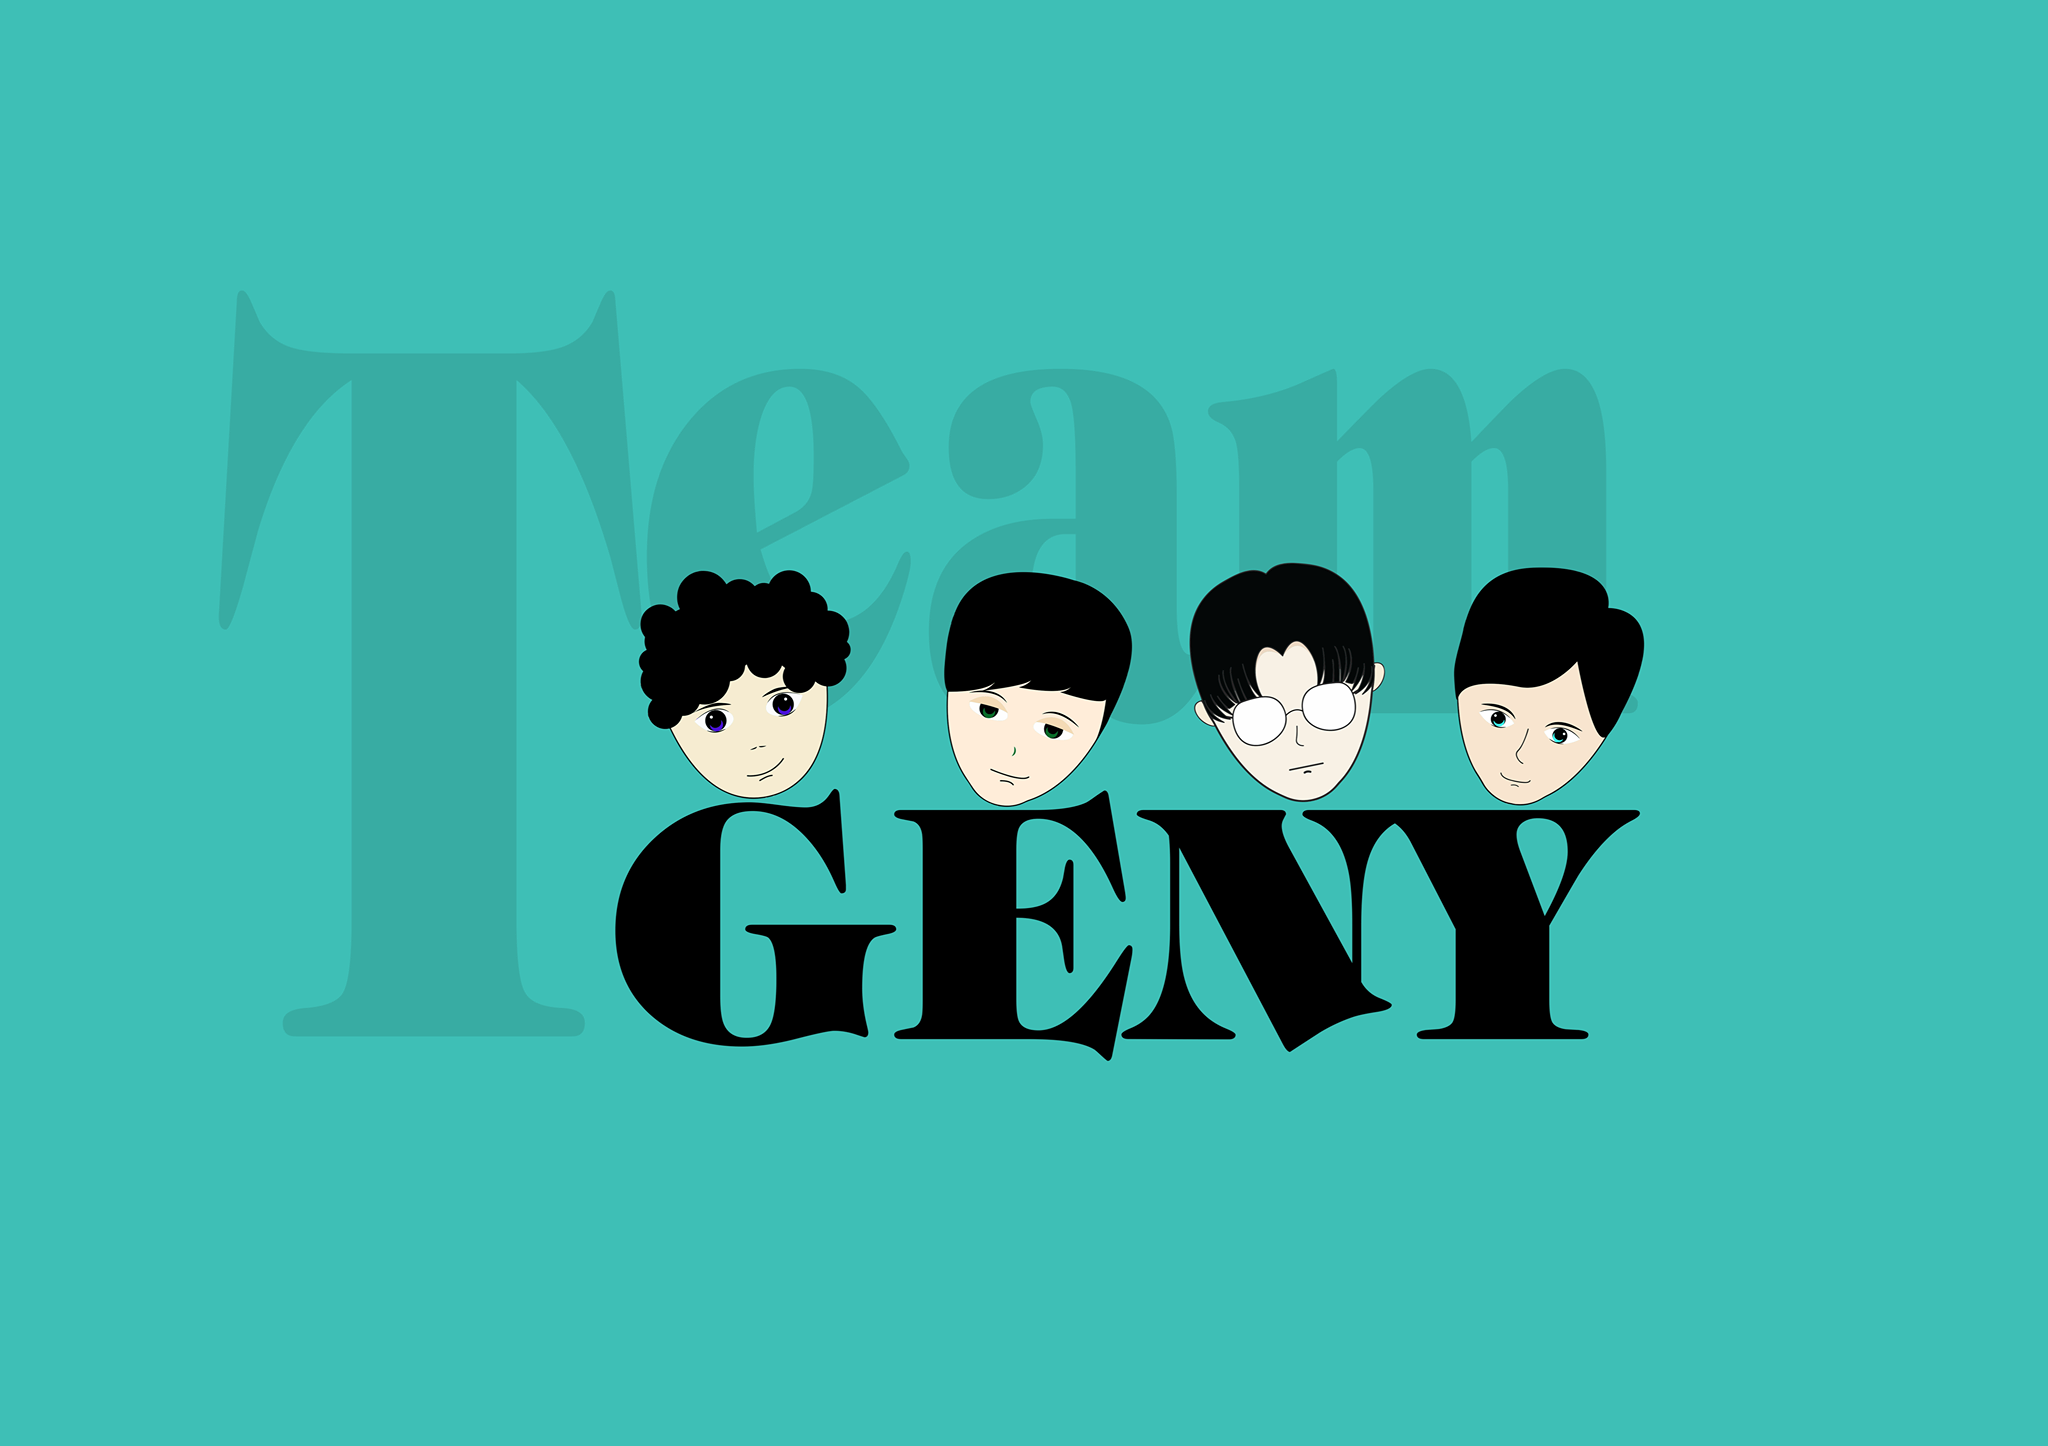
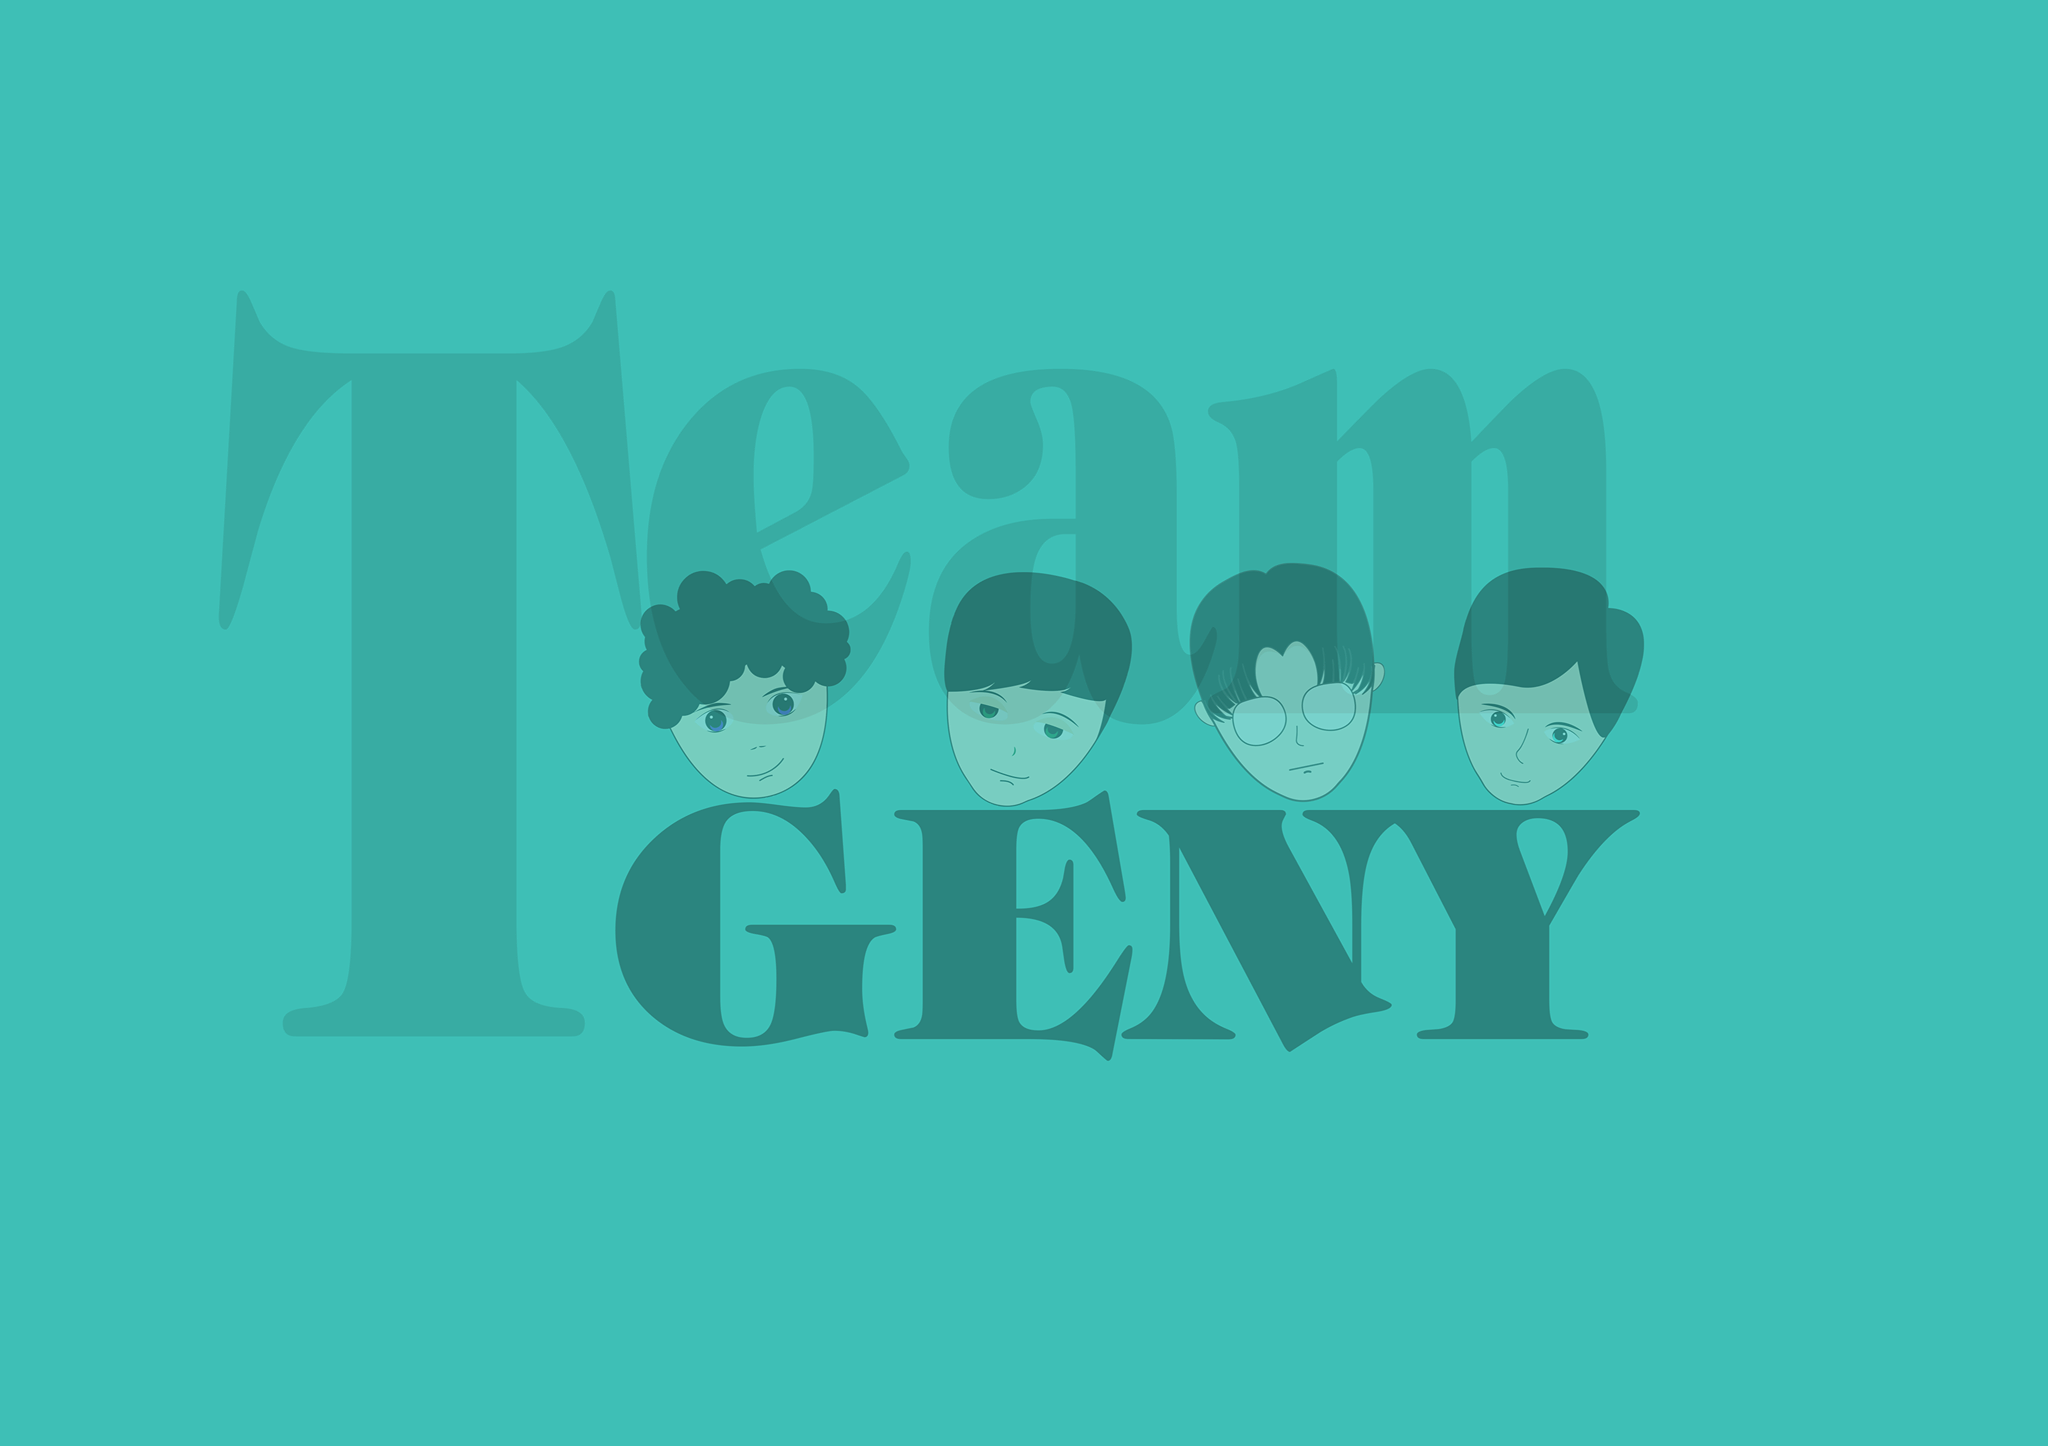
LOGIN STUDENT

Changed region(s): [[0.2812, 0.3734, 0.8125, 0.7469]]

diff --git a/Login_Student.py b/Login_Student.py
@@ -1,6 +1,9 @@
 from tkinter import *
 from DB import *
 from registration import *
+from PIL import Image, ImageTk
+import hashlib
+import time 
 class Login(Frame):
     def __init__(self,master=None):
         Frame.__init__(self,master)
@@ -8,41 +11,44 @@ class Login(Frame):
         self.account=StringVar()
         self.password=StringVar()
         self.con,self.cur=connect_DB("Sinhvien.db")
+        self.load=[]
+        self.hinh=[]
         self.display()
     
     def display(self):
-        self.master.geometry("200x125")
+        self.load.append(Image.open("Image\\Sign-in50x50.png"))
+        self.hinh.append(ImageTk.PhotoImage(self.load[0]))
+        self.load.append(Image.open("Image\\GenyTeam50x50.png"))
+        self.hinh.append(ImageTk.PhotoImage(self.load[1]))
+        self.load.append(Image.open("Image\\Entry.png"))
+        self.hinh.append(ImageTk.PhotoImage(self.load[2]))
+        Label(self.master,image=self.hinh[1]).place(x=0,y=0)
+        self.master.maxsize(800,500)
         A=Label(self.master,text="Account")
-        B=Entry(self.master,textvariable=self.account)
+        B=Entry(self.master,textvariable=self.account,bg="gray",selectbackground="black")
         C=Label(self.master,text="Passworld")
-        D=Entry(self.master,textvariable=self.password)
-        E=Button(self.master,text="Login",command=self.login)
+        D=Entry(self.master,textvariable=self.password,show="*",bg="gray")
+        E=Button(self.master,image=self.hinh[0],command=self.login)
         F=Button(self.master,text="registration",command=self.reg)
         K=Button(self.master,text="Exit")
-        A.pack()
         A.place(bordermode=OUTSIDE,x=0,y=60)
-        B.pack()
         B.place(bordermode=OUTSIDE,x=60,y=60)
-        C.pack()
         C.place(bordermode=OUTSIDE,x=0,y=80)
-        D.pack()
         D.place(bordermode=OUTSIDE,x=60,y=80)
-        E.pack()
         E.place(bordermode=OUTSIDE,x=0,y=100)
-        F.pack()
         F.place(bordermode=OUTSIDE,x=70,y=100)
-        K.pack()
         K.place(bordermode=OUTSIDE,x=170,y=100) 
         # self.master.bind('<Button-1>',self.motion)
         self.master.mainloop()
 
     def login(self):
-        print(self.account.get())
+        if Checkpassworld(self.cur,self.account.get(),self.password.get()):
+            print("True")
+        else :
+            print("Flase")
 
     def reg(self):
         App=Toplevel()
         registration(App)
 
-    def log(self):
-        pass
 App=Login(Tk())

diff --git a/DB.py b/DB.py
@@ -1,4 +1,5 @@
 import sqlite3
+import hashlib
 #connect Database
 def connect_DB(dbfile):
     con = sqlite3.connect(dbfile)
@@ -10,7 +11,8 @@ def Creat_TableSV(cur):
         CREATE TABLE if not exists SV
         (
             ID text PRIMARY KEY,
-            PASSWORD text
+            PASSWORD text,
+            SALT text
         )"""
     str
     success_flag = True
@@ -23,11 +25,11 @@ def Creat_TableSV(cur):
     else:
         print("Creat Fail: ")
 
-def Insert_SV(cur,con,id,passWorld):
+def Insert_SV(cur,con,id,passWord,salt):
     success_flag=True
     try:
         cur.execute("""INSERT OR IGNORE INTO SV
-                VALUES(?,?)""",(id,passWorld) )
+                VALUES(?,?,?)""",(id,passWord,salt) )
     except:
         success_flag=False
     if success_flag == True:
@@ -39,6 +41,10 @@ def Insert_SV(cur,con,id,passWorld):
 def Select_SV(cur):
     result = cur.execute("SELECT * FROM SV")
     return result
+
+def Select_SV_salt(cur,id):
+    result = cur.execute("SELECT SALT FROM SV WHERE ID = ?;",(id,)).fetchone()
+    return(result[0])
 
 def Update_User(cur,con,id,newPassWorld):
     success_flag = True
@@ -58,17 +64,25 @@ def Update_User(cur,con,id,newPassWorld):
 
 def Checkpassworld(cur,id,pas):
     try:
+        salt=Select_SV_salt(cur,id)
+        pas=pas+salt
+        mk= hashlib.md5(pas.encode('utf-8')).hexdigest()
         pas_old=cur.execute('SELECT PASSWORD FROM SV WHERE ID = ?;',(id,))
         pas_old=pas_old.fetchone()
         pas_old=pas_old[0]
     except:
         return False
-    if(pas_old==pas):
+    if(pas_old==mk):
         return True
     else:
         return False
 
-con,cur=connect_DB("Sinhvien.db")
-a=Select_SV(cur)
-for i in a:
-    print(i)
+
+# con,cur=connect_DB("Sinhvien.db")
+# a=Select_SV_salt(cur,"123")
+# print(a)
+# a=Insert_SV(cur,con,"12","123abc","abc")
+# print(a)
+# Creat_TableSV(cur)
+# a=Select_SV(cur)
+# for i in a: 

diff --git a/registration.py b/registration.py
@@ -1,7 +1,11 @@
 from DB import *
 from tkinter import *
 import hashlib
-
+import string
+import random
+def randomString(stringLength=6):
+    letters = string.ascii_lowercase
+    return ''.join(random.choice(letters) for i in range(stringLength))
 class registration(Frame):
     def __init__(self,master):
         Frame.__init__(self,master)
@@ -31,11 +35,15 @@ class registration(Frame):
         for i in arrId:
             if self.account.get() in i :      
                 return 
-        mk= hashlib.md5(self.passWord.get().encode('utf-8')).hexdigest()
+        salt=randomString()
+        passWord=self.passWord.get()+salt
+        print(passWord)
+        mk= hashlib.md5(passWord.encode('utf-8')).hexdigest()
         # print(mk)
-        self.passWord=mk
+        passWord=mk
+        # print(passWord)
         # mk.update(self.passWord.encode())
-        success=Insert_SV(self.cur,self.con,self.account.get(),self.passWord)
+        success=Insert_SV(self.cur,self.con,self.account.get(),passWord,salt)
         if success:
             print("True")
         else:

diff --git a/test.py b/test.py
@@ -1,18 +1,3 @@
-import tkinter
-
-class MyClass(tkinter.Frame):
-    def __init__(self,parent, *args, **kwargs):
-        tkinter.Frame.__init__(self, parent, *args, **kwargs)
-
-        self.btn = tkinter.Button(self,text='Don\'t push me',command=self.buttonCmd)
-        self.btn.grid(row=0,column=0,sticky='nwes')
-        self.lbl = tkinter.Label(self,text='Push it, it\'s fun')
-        self.lbl.grid(row=0,column=1,sticky='nwes')
-
-    def buttonCmd(self,*args,**kwargs):
-        self.lbl.grid_forget()
-
-root = tkinter.Tk()
-MyFrame = MyClass(root)
-MyFrame.pack(expand='true',fill='both')
-root.mainloop()
+import time 
+a= time.ctime()
+print(a.tm_year())

diff --git a/Resever.py b/Resever.py
@@ -1,5 +1,5 @@
 from PIL import Image
 
-img= Image.open("Image\\quizz.png")
-img= img.resize((400, 400), Image.ANTIALIAS)
-img.save("Image\\quizz400x400.png")
+img= Image.open("Image\\GenyTeam.png")
+img= img.resize((800, 500), Image.ANTIALIAS)
+img.save("Image\\GenyTeam50x50.png")
